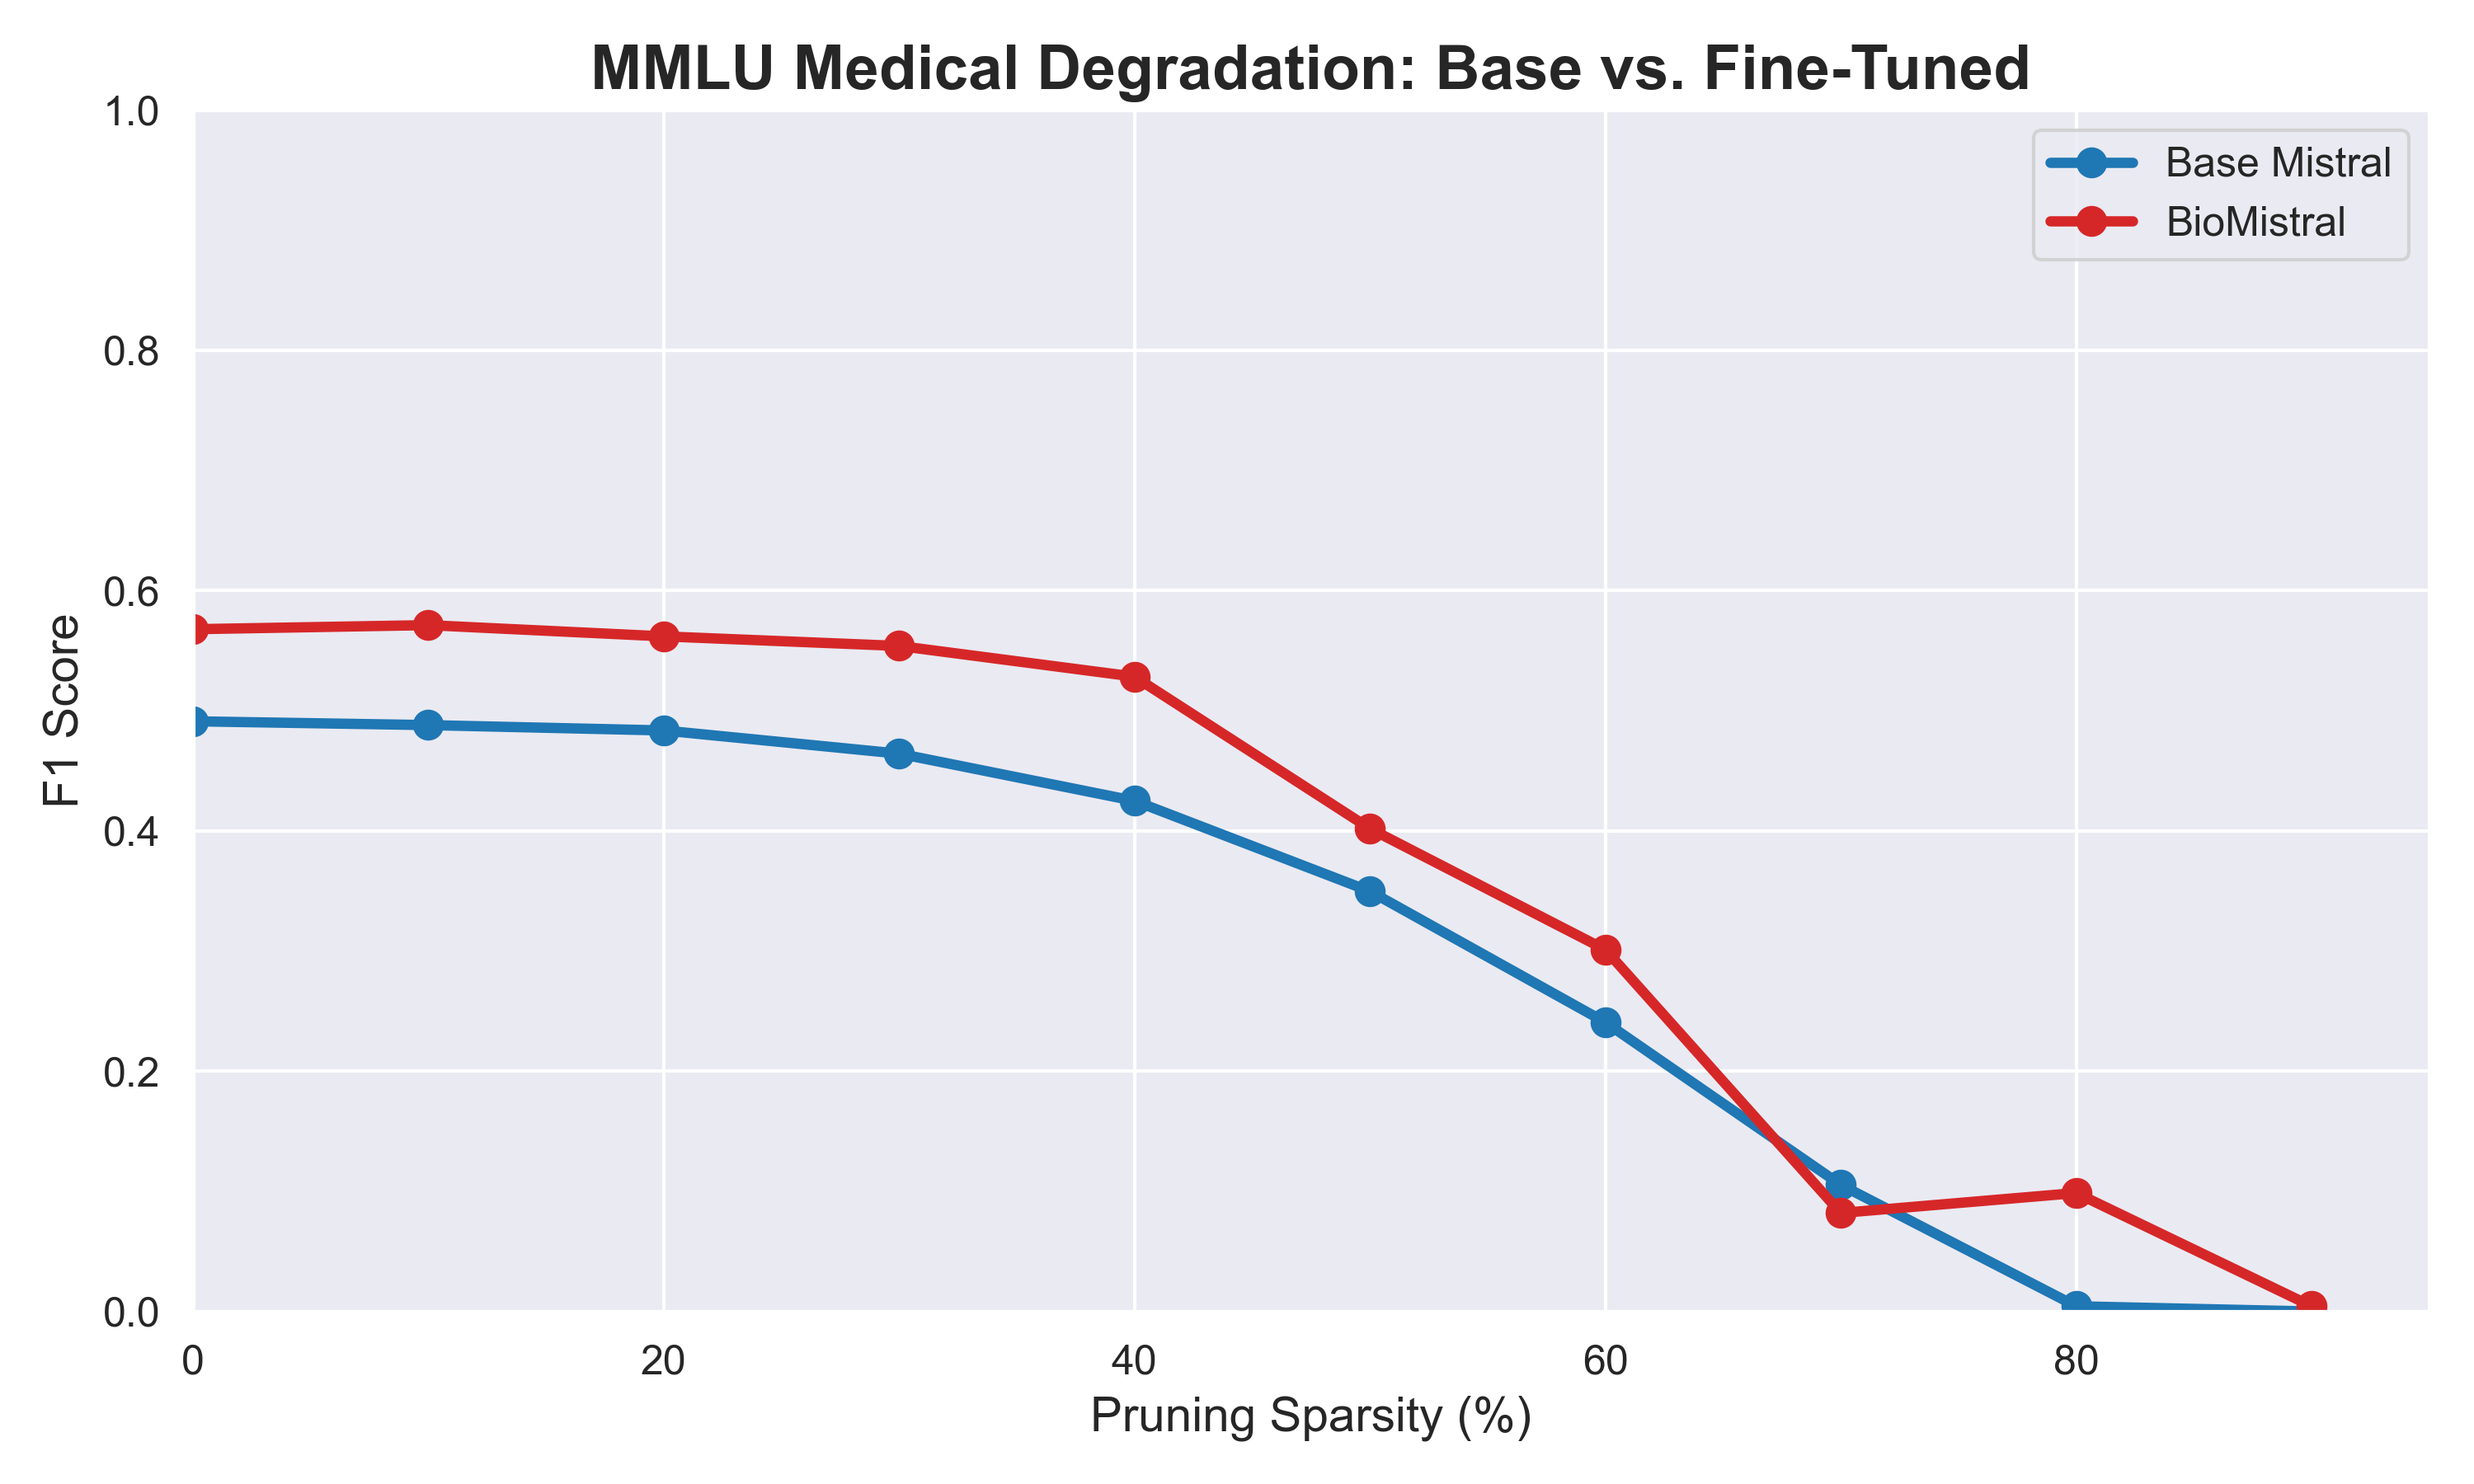
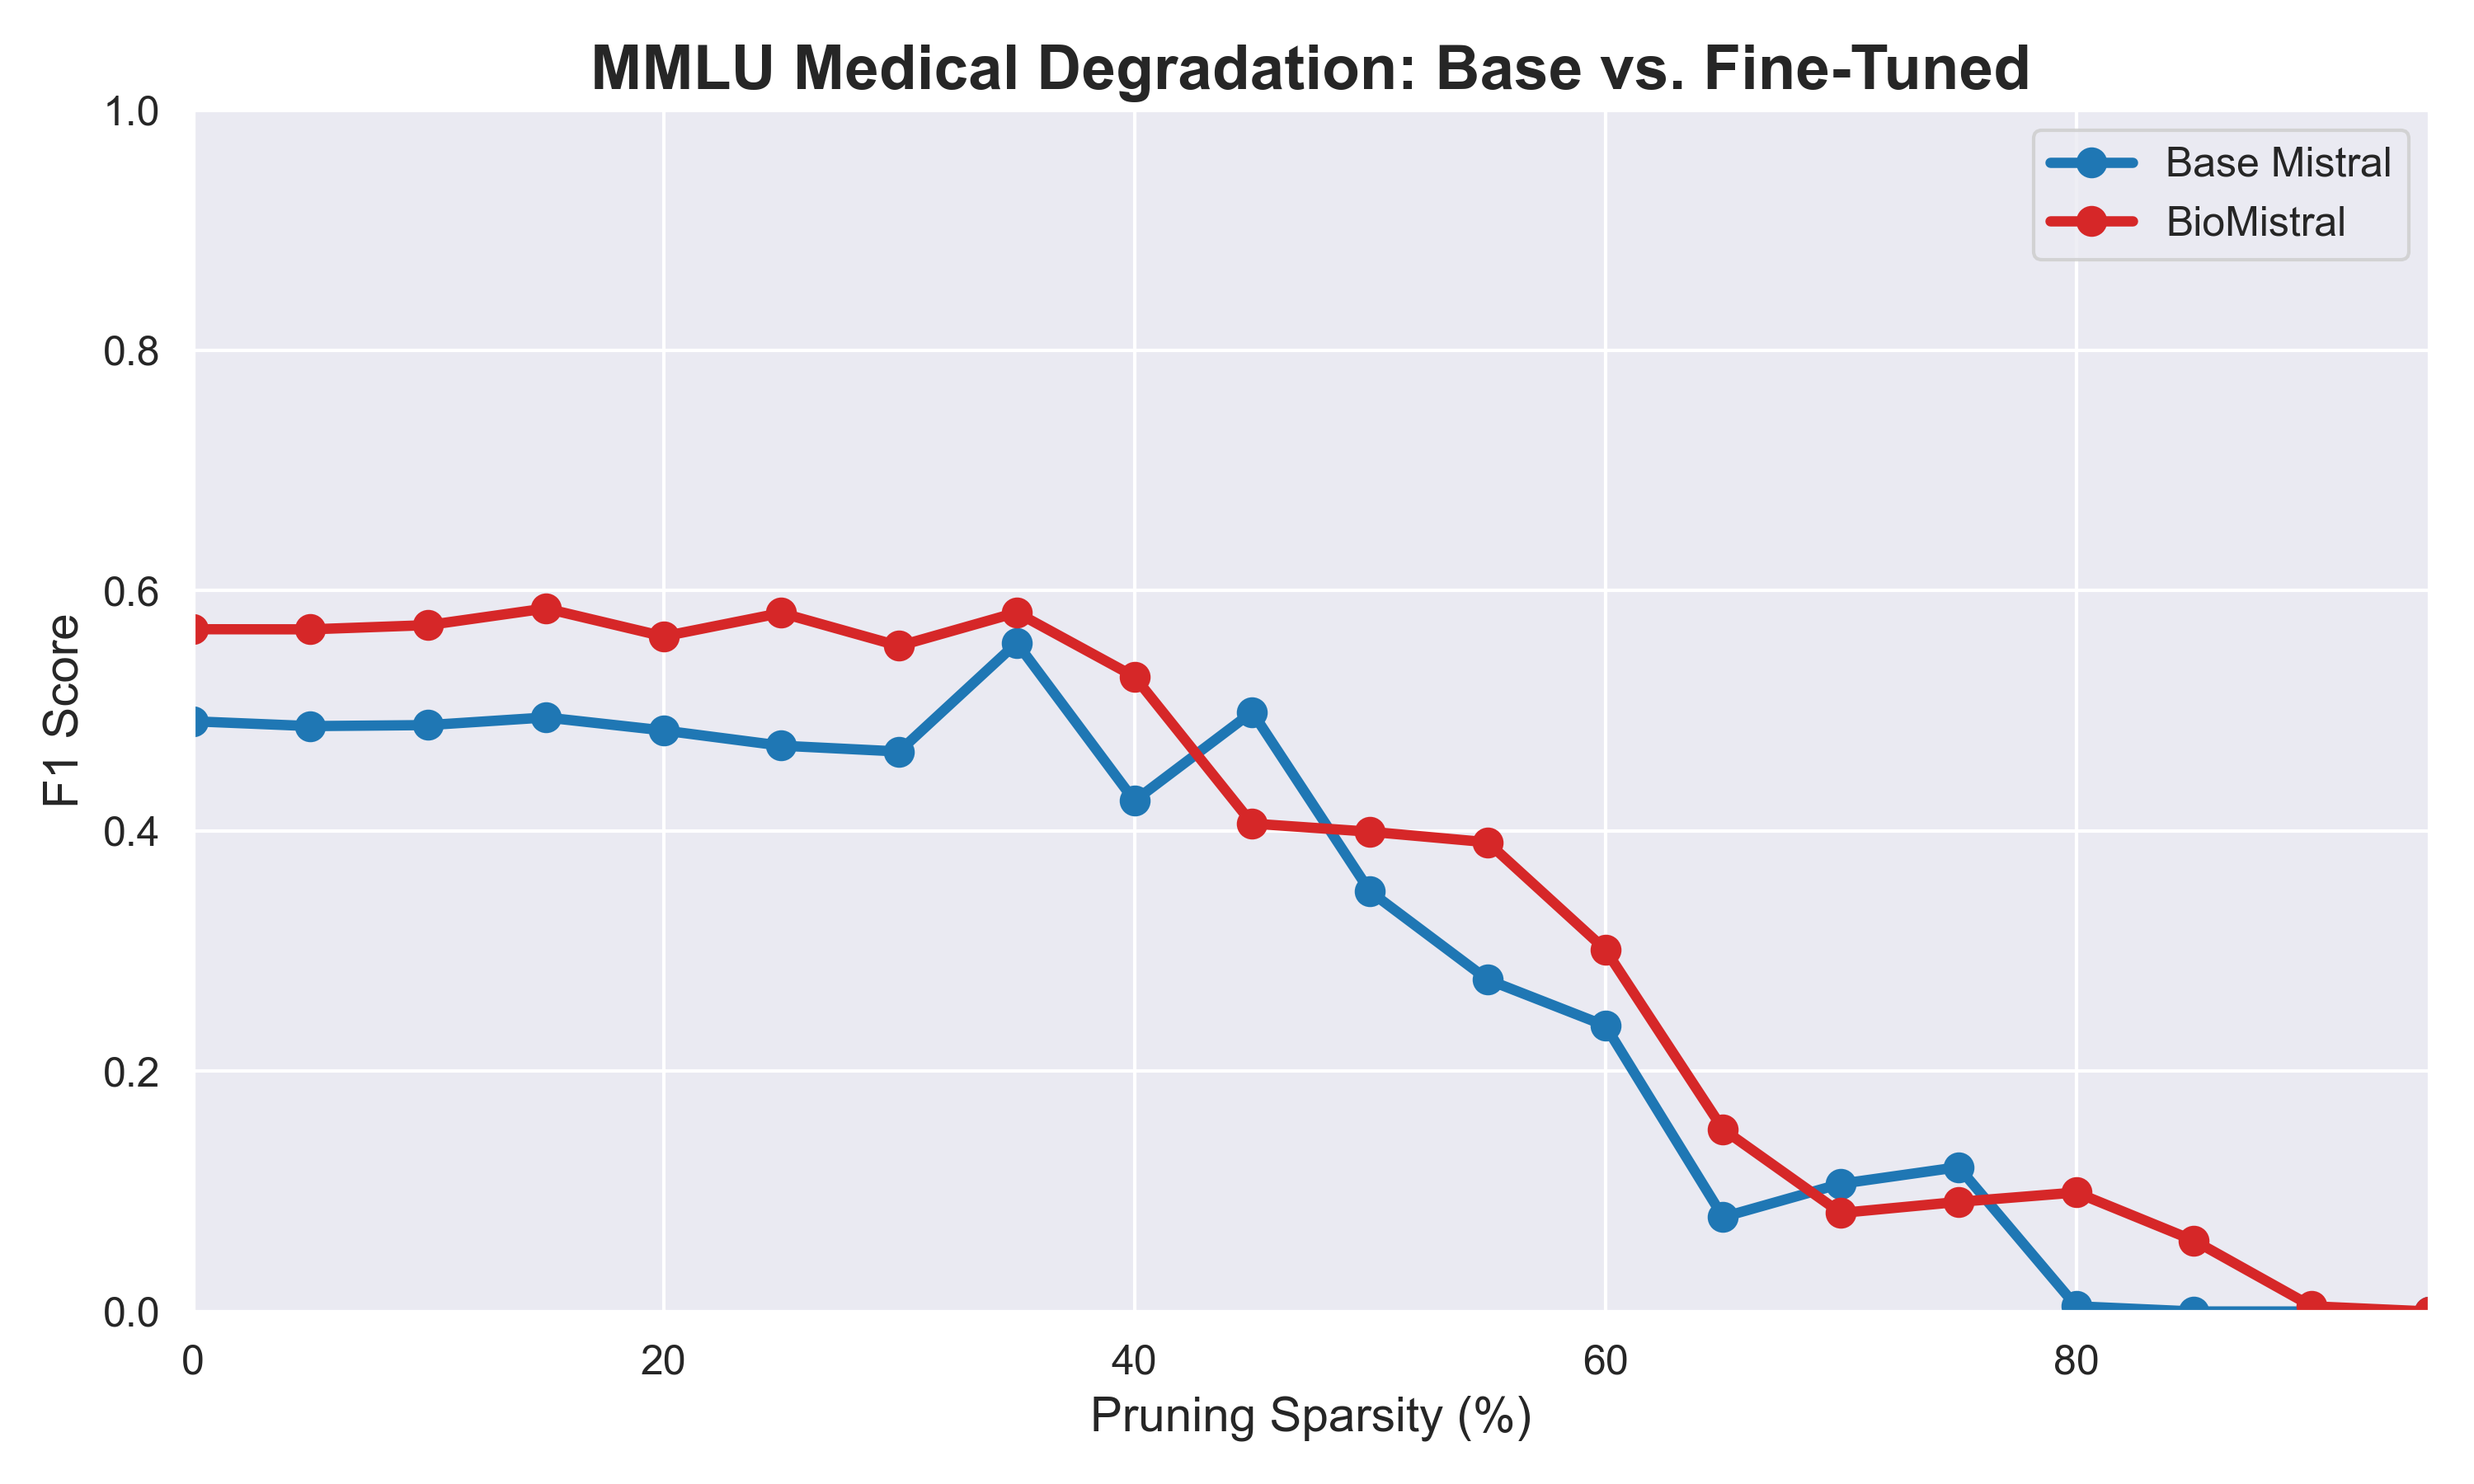
script changes for report

diff --git a/scripts/find_tuning_difference.py b/scripts/find_tuning_difference.py
@@ -1,0 +1,49 @@
+import pandas as pd
+import os
+
+# SPARSITY = 50
+SPARSITY = 75
+
+MISTRAL_FILE = f"../data/Mistral_MMLU/mmlu_mistralai_Mistral-7B-v0.1_{SPARSITY}_percent.csv"
+BIOMISTRAL_FILE = f"../data/BioMistral_MMLU/mmlu_BioMistral_BioMistral-7B_{SPARSITY}_percent.csv"
+
+def find_qualitative_examples():
+    if not os.path.exists(MISTRAL_FILE) or not os.path.exists(BIOMISTRAL_FILE):
+        print(f"Error: Missing raw generation files for {SPARSITY}% sparsity.")
+        return
+
+    # Load the generation logs
+    df_mistral = pd.read_csv(MISTRAL_FILE)
+    df_biomistral = pd.read_csv(BIOMISTRAL_FILE)
+
+    df_merged = df_mistral.merge(
+        df_biomistral, 
+        on=['subject', 'prompt', 'true_answer'], 
+        suffixes=('_mistral', '_bio')
+    )
+
+    medical_subjects = ["college_medicine", "clinical_knowledge"]
+    df_merged = df_merged[df_merged['subject'].isin(medical_subjects)]
+    condition = (df_merged['parsed_guess_mistral'] == 'X') & (df_merged['parsed_guess_bio'] == df_merged['true_answer'])
+    
+    examples = df_merged[condition]
+
+    if examples.empty:
+        print(f"No perfect examples at {SPARSITY}%. Try changing SPARSITY to 45 or 55.")
+    else:
+        print(f"Found {len(examples)} perfect examples!\n")
+        ex = examples.iloc[0]
+        print("="*80)
+        print(f"SUBJECT: {ex['subject']} | TRUE ANSWER: {ex['true_answer']}")
+        print("-" * 80)
+        print(f"PROMPT:\n{ex['prompt'][:500]}...") # Truncated for readability
+        print("-" * 80)
+        print(f"BASE MISTRAL (FAILED PARSE): {ex['parsed_guess_mistral']}")
+        print(f"MISTRAL RAW TEXT:\n{ex['raw_response_mistral']}")
+        print("-" * 80)
+        print(f"BIOMISTRAL (SUCCESS): {ex['parsed_guess_bio']}")
+        print(f"BIOMISTRAL RAW TEXT:\n{ex['raw_response_bio']}")
+        print("="*80)
+
+if __name__ == "__main__":
+    find_qualitative_examples()

diff --git a/scripts/plot_degradation.py b/scripts/plot_degradation.py
@@ -26,7 +26,8 @@ MMLU_PREFIXES = {
 
 LOGIC_SUBJECTS = ["formal_logic", "logical_fallacies", "global_facts"]
 MEDICAL_SUBJECTS = ["college_medicine", "clinical_knowledge"]
-SPARSITIES = [0.0, 0.1, 0.2, 0.3, 0.4, 0.5, 0.6, 0.7, 0.8, 0.9]
+
+SPARSITIES = [0.0, 0.05, 0.1, 0.15, 0.2, 0.25, 0.3, 0.35, 0.4, 0.45, 0.5, 0.55, 0.6, 0.65, 0.7, 0.75, 0.8, 0.85, 0.9, 0.95]
 
 def calculate_domain_f1(df, subjects):
     subset = df[df['subject'].isin(subjects)]
@@ -39,7 +40,7 @@ def calculate_domain_f1(df, subjects):
 def extract_mmlu_curve(prefix, subjects):
     f1s = []
     for s in SPARSITIES:
-        file_path = f"{prefix}_{int(s*100)}_percent.csv"
+        file_path = f"{prefix}_{int(round(s*100))}_percent.csv"
         if os.path.exists(file_path):
             df = pd.read_csv(file_path)
             f1s.append(calculate_domain_f1(df, subjects))
@@ -49,7 +50,7 @@ def extract_mmlu_curve(prefix, subjects):
 
 def plot_pubmedqa():
     plt.figure(figsize=(10, 6))
-    colors = {"Base Mistral": "#1f77b4", "BioMistral": "#d62728"} # Blue vs Red for contrast
+    colors = {"Base Mistral": "#1f77b4", "BioMistral": "#d62728"} 
     
     for model_name, file_path in AGGREGATE_FILES.items():
         if os.path.exists(file_path):
@@ -97,7 +98,7 @@ def plot_mmlu_domain(subjects, domain_name, filename):
     plt.close()
 
 if __name__ == "__main__":
-    print(f"Generating high-resolution poster graphics to {FILES_DIR}...")
+    print(f"Generating high-resolution graphics to {FILES_DIR}...")
     plot_pubmedqa()
     plot_mmlu_domain(LOGIC_SUBJECTS, "Logic", "mmlu_logic_degradation.png")
     plot_mmlu_domain(MEDICAL_SUBJECTS, "Medical", "mmlu_medical_degradation.png")

diff --git a/scripts/calculate_auc.py b/scripts/calculate_auc.py
@@ -20,7 +20,8 @@ MMLU_PREFIXES = {
 
 LOGIC_SUBJECTS = ["formal_logic", "logical_fallacies", "global_facts"]
 MEDICAL_SUBJECTS = ["college_medicine", "clinical_knowledge"]
-SPARSITIES = [0.0, 0.1, 0.2, 0.3, 0.4, 0.5, 0.6, 0.7, 0.8, 0.9]
+
+SPARSITIES = [0.0, 0.05, 0.1, 0.15, 0.2, 0.25, 0.3, 0.35, 0.4, 0.45, 0.5, 0.55, 0.6, 0.65, 0.7, 0.75, 0.8, 0.85, 0.9, 0.95]
 
 def calculate_domain_f1(df, subjects):
     subset = df[df['subject'].isin(subjects)]
@@ -32,7 +33,7 @@ def calculate_domain_f1(df, subjects):
 def extract_mmlu_curve(prefix, subjects):
     f1s = []
     for s in SPARSITIES:
-        file_path = f"{prefix}_{int(s*100)}_percent.csv"
+        file_path = f"{prefix}_{int(round(s*100))}_percent.csv"
         if os.path.exists(file_path):
             df = pd.read_csv(file_path)
             f1s.append(calculate_domain_f1(df, subjects))
@@ -53,7 +54,6 @@ if __name__ == "__main__":
     for model_name, file_path in AGGREGATE_FILES.items():
         if os.path.exists(file_path):
             df = pd.read_csv(file_path)
-            # Ensure sorting by sparsity just in case
             df = df.sort_values(by='sparsity')
             auc = calculate_auc(df['f1'].tolist())
             print(f"{model_name}: {auc:.4f}")
